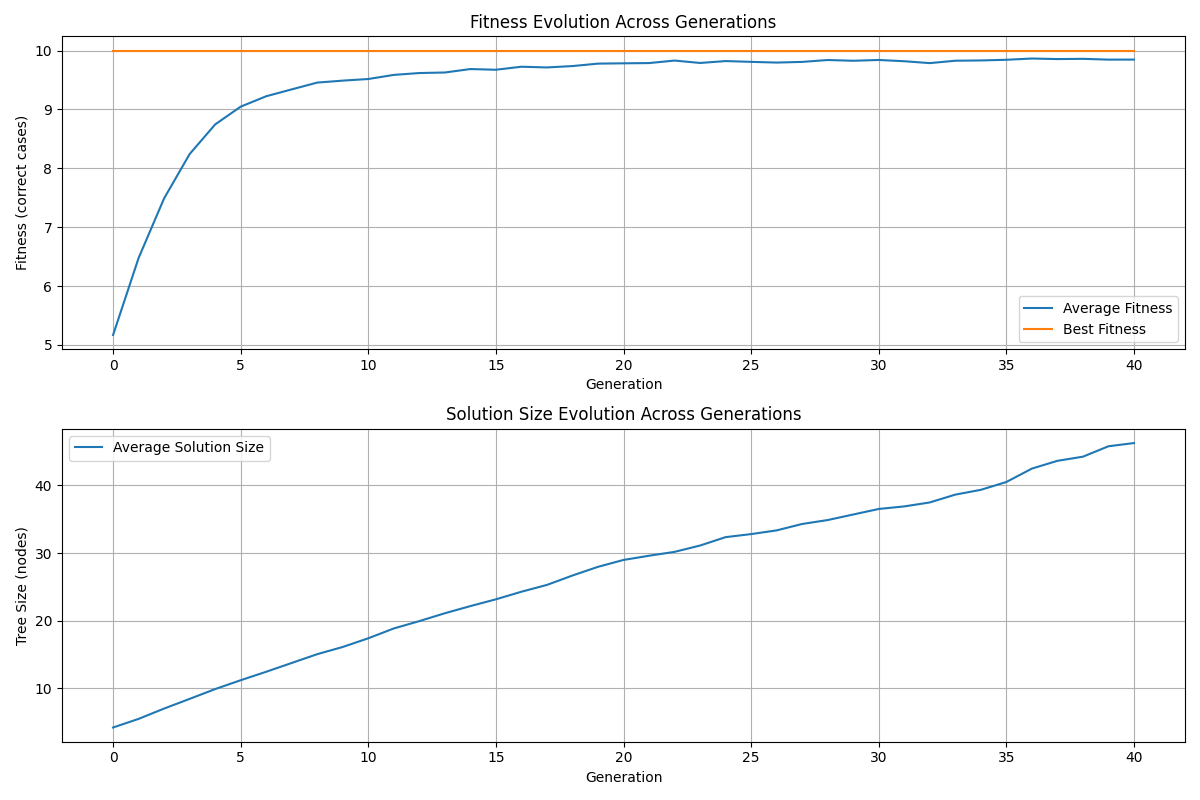
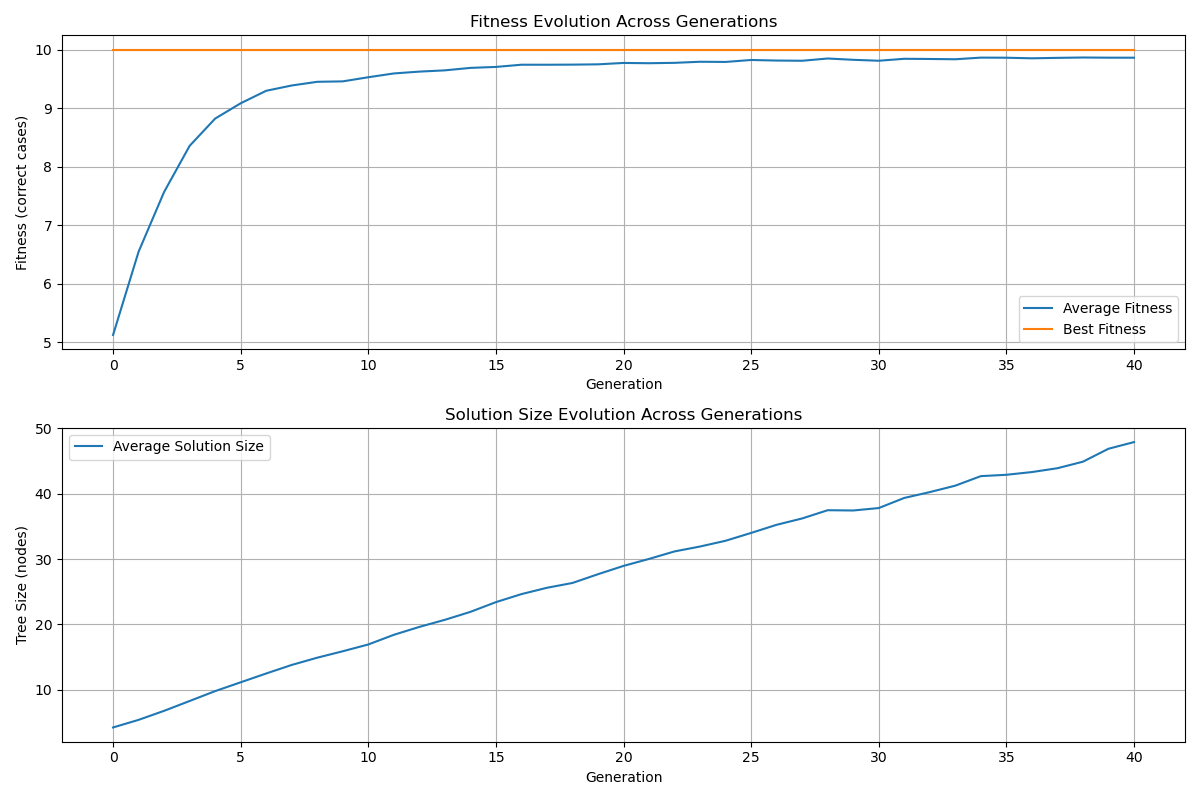
reverting back to previous version

diff --git a/smallest_int.py b/smallest_int.py
@@ -1,246 +1,89 @@
+import operator
+import math
 import random
-import numpy as np
-import matplotlib.pyplot as plt
-from deap import base, creator, tools, gp
-import statistics
-import multiprocessing
 
-# Create fitness and individual
-creator.create("FitnessMin", base.Fitness, weights=(1.0,))
+import numpy
+
+from functools import partial
+
+from deap import algorithms
+from deap import base
+from deap import creator
+from deap import tools
+from deap import gp
+
+
+# Main has 4 arguments (a, b, c, d) and can use one function (min)
+pset = gp.PrimitiveSet("MAIN", 4)
+pset.renameArguments(ARG0='a', ARG1='b', ARG2='c', ARG3='d')
+pset.addPrimitive(min, 2)
+
+# Not entirely sure what weights refers to, but it was in the template soooo ¯\_(ツ)_/¯
+creator.create("FitnessMin", base.Fitness, weights=(-1.0,))
 creator.create("Individual", gp.PrimitiveTree, fitness=creator.FitnessMin)
 
-# Define primitive set (operations, inputs)
-pset = gp.PrimitiveSet("MAIN", 4)  # 4 inputs: a, b, c, d
-pset.addPrimitive(min, 2)           # only minimum of two values
-pset.renameArguments(ARG0="a", ARG1="b", ARG2="c", ARG3="d")
-
 toolbox = base.Toolbox()
-# Tree initialization
-toolbox.register("expr", gp.genHalfAndHalf, pset=pset, min_=1, max_=2)
+
+# Using half and half to generate trees of depth 2 because we don't want a very complicated solution
+toolbox.register("expr", gp.genHalfAndHalf, pset=pset, min_=2, max_=2)
 toolbox.register("individual", tools.initIterate, creator.Individual, toolbox.expr)
 toolbox.register("population", tools.initRepeat, list, toolbox.individual)
+toolbox.register("compile", gp.compile, pset=pset)
 
-# Fixed training cases - 10 sets of 4 random integers
-def generate_training_cases(num_cases=10, range_min=-100, range_max=100):
-    cases = []
-    for _ in range(num_cases):
-        case_input = [random.randint(range_min, range_max) for _ in range(4)]
-        cases.append((case_input, min(case_input)))
-    return cases
+# Disclaimer: ChatGPT wrote this function to generate data our data (50 quadruplets of integers 
+# between -50 and 50)
+def generate_test_cases(num_cases=50, low=-50, high=50):
+    return [tuple(random.randint(low, high) for _ in range(4)) for _ in range(num_cases)]
 
-def evaluate(individual, training_cases):
-    # Transform the tree expression into a callable function
-    func = gp.compile(individual, pset)
-    
-    # Evaluate the individual on each test case
-    correct = 0
-    for inputs, expected in training_cases:
-        try:
-            result = func(*inputs)
-            if result == expected:
-                correct += 1
-        except Exception:
-            # Handle potential errors
-            pass
-    
-    return correct,  # Return as tuple
+test_cases = generate_test_cases()
 
-# Register the evolutionary operators
+def evalMin(individual):
+    func = toolbox.compile(expr=individual)
+    error = 0
+    for a, b, c, d in test_cases:
+        output = func(a, b, c, d)
+        ground_truth = min(a, b, c, d)
+        inputs = [a, b, c, d]
+        rest = []
+        for i in inputs:
+            if i != output:
+                rest.append(i)
+        if output == ground_truth:
+            error += 0
+        else:
+            error += abs(output - ground_truth) 
+    return error,
+
+
+toolbox.register("evaluate", evalMin)
 toolbox.register("select", tools.selTournament, tournsize=3)
 toolbox.register("mate", gp.cxOnePoint)
 toolbox.register("expr_mut", gp.genFull, min_=0, max_=2)
 toolbox.register("mutate", gp.mutUniform, expr=toolbox.expr_mut, pset=pset)
 
-# Set up statistics to collect
-stats_fit = tools.Statistics(lambda ind: ind.fitness.values[0])
-stats_size = tools.Statistics(len)
-mstats = tools.MultiStatistics(fitness=stats_fit, size=stats_size)
-mstats.register("avg", np.mean)
-mstats.register("std", np.std)
-mstats.register("min", np.min)
-mstats.register("max", np.max)
-
-def run_single_trial(trial_id, training_cases, verbose=False):
-    """Run a single trial of the GP algorithm"""
-    random.seed(42 + trial_id)  # Different seed for each trial
-    
-    # Create a new evaluation function with our training cases
-    toolbox.register("evaluate", evaluate, training_cases=training_cases)
-    
-    # Initialize the population
-    pop = toolbox.population(n=300)
-    hof = tools.HallOfFame(1)
-    
-    # Parameters
-    CXPB, MUTPB, NGEN = 0.5, 0.2, 40
-    
-    # Evaluate the entire population
-    fitnesses = map(toolbox.evaluate, pop)
-    for ind, fit in zip(pop, fitnesses):
-        ind.fitness.values = fit
-    
-    # Track statistics by generation
-    gen_stats = []
-    
-    # Initial statistics
-    record = mstats.compile(pop)
-    gen_stats.append(record)
-    
-    if verbose:
-        print(f"Trial {trial_id+1} - Gen 0: Best fitness = {tools.selBest(pop, 1)[0].fitness.values[0]}/10")
-    
-    for g in range(NGEN):
-        # Select the next generation individuals
-        offspring = toolbox.select(pop, len(pop))
-        # Clone the selected individuals
-        offspring = list(map(toolbox.clone, offspring))
-
-        # Apply crossover and mutation
-        for child1, child2 in zip(offspring[::2], offspring[1::2]):
-            if random.random() < CXPB:
-                toolbox.mate(child1, child2)
-                del child1.fitness.values
-                del child2.fitness.values
-
-        for mutant in offspring:
-            if random.random() < MUTPB:
-                toolbox.mutate(mutant)
-                del mutant.fitness.values
-
-        # Evaluate the individuals with an invalid fitness
-        invalid_ind = [ind for ind in offspring if not ind.fitness.valid]
-        fitnesses = map(toolbox.evaluate, invalid_ind)
-        for ind, fit in zip(invalid_ind, fitnesses):
-            ind.fitness.values = fit
-
-        # The population is entirely replaced by the offspring
-        pop[:] = offspring
-        
-        # Update hall of fame and statistics
-        hof.update(pop)
-        record = mstats.compile(pop)
-        gen_stats.append(record)
-        
-        # Display progress
-        if verbose and ((g+1) % 10 == 0 or g == NGEN-1):
-            best_ind = tools.selBest(pop, 1)[0]
-            print(f"Trial {trial_id+1} - Gen {g+1}: Best fitness = {best_ind.fitness.values[0]}/10")
-    
-    # Return the best individual and all statistics
-    best_ind = tools.selBest(pop, 1)[0]
-    return {
-        "best_individual": best_ind,
-        "best_fitness": best_ind.fitness.values[0], 
-        "best_size": len(best_ind),
-        "gen_stats": gen_stats
-    }
+toolbox.decorate("mate", gp.staticLimit(key=operator.attrgetter("height"), max_value=17))
+toolbox.decorate("mutate", gp.staticLimit(key=operator.attrgetter("height"), max_value=17))
 
 def main():
-    NUM_TRIALS = 10  # Number of independent runs
-    NUM_CASES = 10   # Number of training cases
-    
-    print(f"Running {NUM_TRIALS} independent trials...")
-    
-    # Generate the training cases once for all trials
-    training_cases = generate_training_cases(NUM_CASES)
-    
-    # Print the training cases
-    print("Training Cases:")
-    for i, (inputs, expected) in enumerate(training_cases):
-        print(f"Case {i+1}: {inputs} -> Min: {expected}")
-    
-    # Run trials (optional: use multiprocessing pool for parallel runs)
-    results = []
-    for i in range(NUM_TRIALS):
-        trial_result = run_single_trial(i, training_cases, verbose=True)
-        results.append(trial_result)
-        
-        # Print summary after each trial
-        print(f"\nTrial {i+1} Summary:")
-        print(f"Best individual: {trial_result['best_individual']}")
-        print(f"Best fitness: {trial_result['best_fitness']}/{NUM_CASES}")
-        print(f"Individual size: {trial_result['best_size']}")
-        print("-" * 50)
-    
-    # Analyze results across all trials
-    print("\n===== OVERALL STATISTICS =====")
-    best_fitnesses = [r["best_fitness"] for r in results]
-    best_sizes = [r["best_size"] for r in results]
-    
-    print(f"Best Fitness Statistics:")
-    print(f"  Mean: {statistics.mean(best_fitnesses):.2f}")
-    print(f"  Std dev: {statistics.stdev(best_fitnesses) if len(best_fitnesses) > 1 else 0:.2f}")
-    print(f"  Min: {min(best_fitnesses)}")
-    print(f"  Max: {max(best_fitnesses)}")
-    
-    print(f"\nBest Solution Size Statistics:")
-    print(f"  Mean: {statistics.mean(best_sizes):.2f}")
-    print(f"  Std dev: {statistics.stdev(best_sizes) if len(best_sizes) > 1 else 0:.2f}")
-    print(f"  Min: {min(best_sizes)}")
-    print(f"  Max: {max(best_sizes)}")
-    
-    # Calculate average performance by generation across all trials
-    avg_fitness_by_gen = []
-    best_fitness_by_gen = []
-    avg_size_by_gen = []
-    
-    for gen in range(41):  # 0 to 40 generations
-        gen_fit_avg = []
-        gen_fit_best = []
-        gen_size_avg = []
-        
-        for trial in results:
-            stats = trial["gen_stats"][gen]
-            gen_fit_avg.append(stats["fitness"]["avg"])
-            gen_fit_best.append(stats["fitness"]["max"])
-            gen_size_avg.append(stats["size"]["avg"])
-        
-        avg_fitness_by_gen.append(statistics.mean(gen_fit_avg))
-        best_fitness_by_gen.append(statistics.mean(gen_fit_best))
-        avg_size_by_gen.append(statistics.mean(gen_size_avg))
-    
-    # Plot the results
-    plt.figure(figsize=(12, 8))
-    
-    plt.subplot(2, 1, 1)
-    plt.plot(avg_fitness_by_gen, label="Average Fitness")
-    plt.plot(best_fitness_by_gen, label="Best Fitness")
-    plt.xlabel("Generation")
-    plt.ylabel("Fitness (correct cases)")
-    plt.title("Fitness Evolution Across Generations")
-    plt.legend()
-    plt.grid(True)
-    
-    plt.subplot(2, 1, 2)
-    plt.plot(avg_size_by_gen, label="Average Solution Size")
-    plt.xlabel("Generation")
-    plt.ylabel("Tree Size (nodes)")
-    plt.title("Solution Size Evolution Across Generations")
-    plt.legend()
-    plt.grid(True)
-    
-    plt.tight_layout()
-    plt.savefig("gp_statistics.png")
-    plt.show()
-    
-    # Find and show the best solution from all trials
-    best_trial = max(results, key=lambda x: x["best_fitness"])
-    best_overall = best_trial["best_individual"]
-    
-    print("\nBest Overall Solution:")
-    print(best_overall)
-    print(f"Fitness: {best_trial['best_fitness']}/{NUM_CASES}")
-    print(f"Size: {best_trial['best_size']}")
-    
-    # Test the best individual on training cases
-    func = gp.compile(best_overall, pset)
-    print("\nResults on training cases:")
-    for i, (inputs, expected) in enumerate(training_cases):
-        try:
-            result = func(*inputs)
-            print(f"Case {i+1}: {inputs} -> Expected: {expected}, Got: {result}")
-        except Exception as e:
-            print(f"Case {i+1}: {inputs} -> Error: {e}")
+    random.seed(42) 
+    pop = toolbox.population(n=300)  
+    hof = tools.HallOfFame(1)       
+    stats_fit = tools.Statistics(lambda ind: ind.fitness.values)
+    stats_size = tools.Statistics(len)
+    mstats = tools.MultiStatistics(fitness=stats_fit, size=stats_size)
+    mstats.register("avg", numpy.mean)
+    mstats.register("std", numpy.std)
+    mstats.register("min", numpy.min)
+    mstats.register("max", numpy.max)
+
+    pop, log = algorithms.eaSimple(pop, toolbox,
+                                   cxpb=0.5, mutpb=0.2, ngen=40,
+                                   stats=mstats, halloffame=hof, verbose=True)
+
+    for winner in hof:
+        print(str(winner))
+
+    return pop, log, hof
 
 if __name__ == "__main__":
     main()
